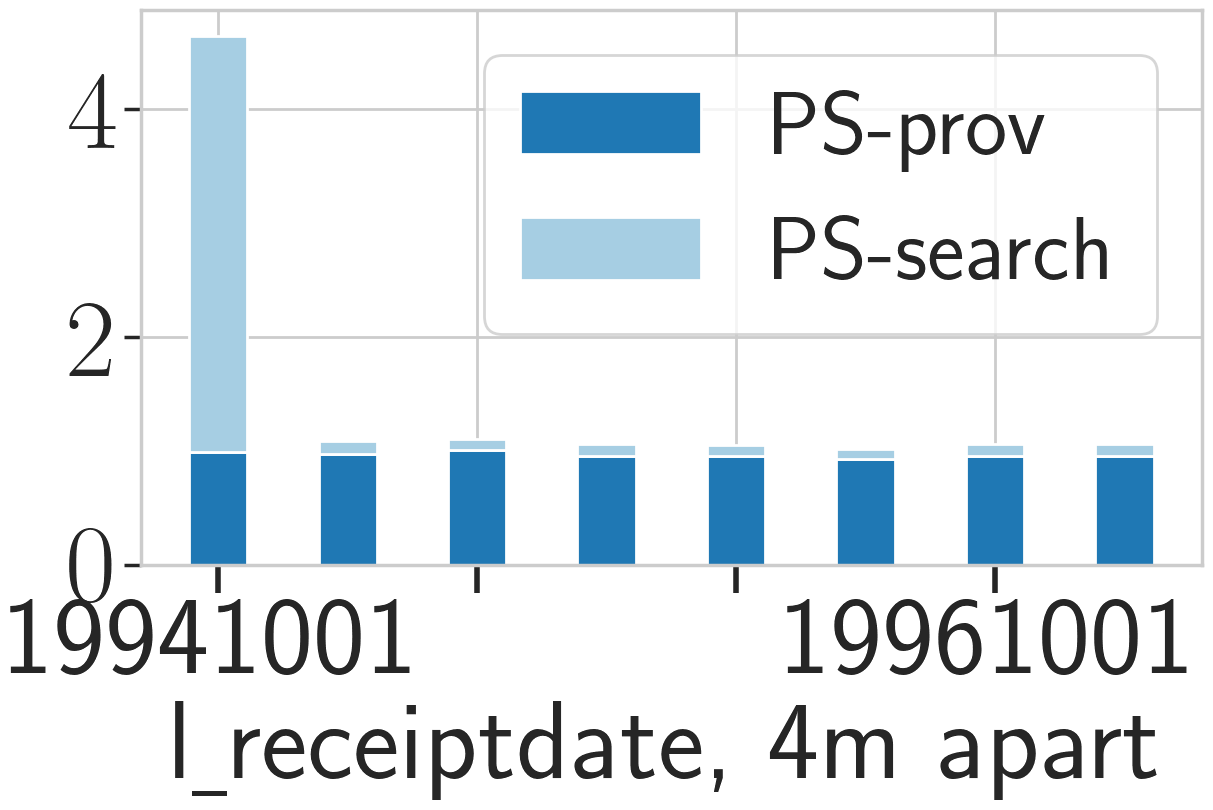
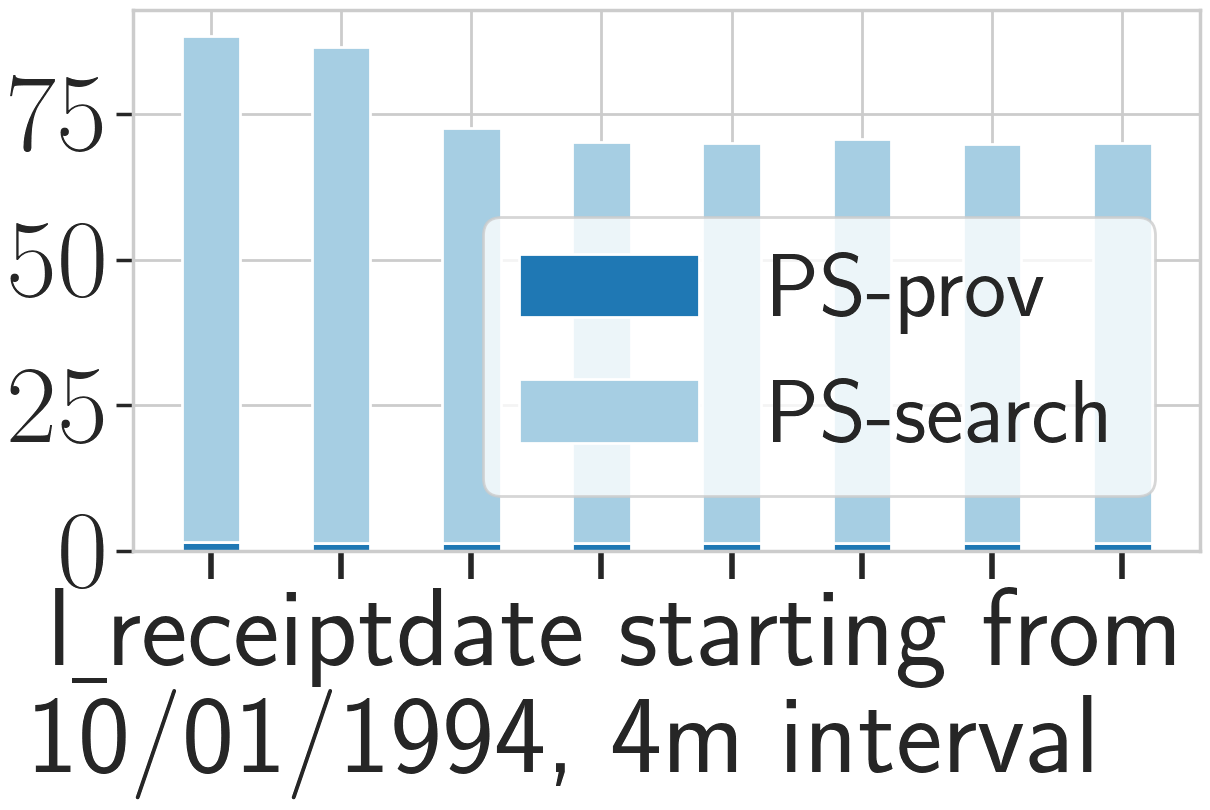
fix

diff --git a/Experiment/TPCH/100M/query_selectivity2/q12_refine/fig.py b/Experiment/TPCH/100M/query_selectivity2/q12_refine/fig.py
@@ -59,10 +59,7 @@ def run(query, size, constraint):
         else:
             execution_timebl1.append(0)
             execution_timebl2.append(0)
-    # x_list = [19941230, 19950115, 19950130, 19950215, 19950230, 19950315, 19950330, 19950415]
-    # x_list = [19941001, 19950601, 19960201, 19961001]
-    x_list = ['19941001', ' ', ' ', '19961001']
-
+    x_list = ['', '', '', '', '', '', '', '']
     print(x_list, execution_timeps1, execution_timeps2)
 
     index = np.arange(len(execution_timeps1))
@@ -85,13 +82,15 @@ def run(query, size, constraint):
     #         color=color[3], label=label[3])
 
 
-    plt.xticks(np.arange(0, 8, 2), x_list, rotation=0, fontsize=80, weight='bold')
+    plt.xticks(np.arange(0, 8), x_list, rotation=0, fontsize=80, weight='bold')
     plt.yticks(fontsize=80, weight='bold')
 
-    plt.xlabel(r'l\underline{ }receiptdate, 4m apart', fontsize=80, weight='bold')
-    # plt.ylabel('Running time (s)', fontsize=70)
+    plt.xlabel(r'l\underline{ }receiptdate starting from \\10/01/1994, 4m interval',
+               fontsize=80, weight='bold').set_position((0.45, -0.1))
+
+
     # plt.legend(loc='upper right', bbox_to_anchor=(1.03, 1.05))
-    plt.legend(loc='upper right', bbox_to_anchor=(1.0, 1.0), fontsize=65)
+    plt.legend(loc='upper right', bbox_to_anchor=(1.0, 0.7), fontsize=65)
     plt.tight_layout()
     fig_path = "query_selectivity_q" + str(query) + "_" + size + "_" + constraint + ".png"
 
